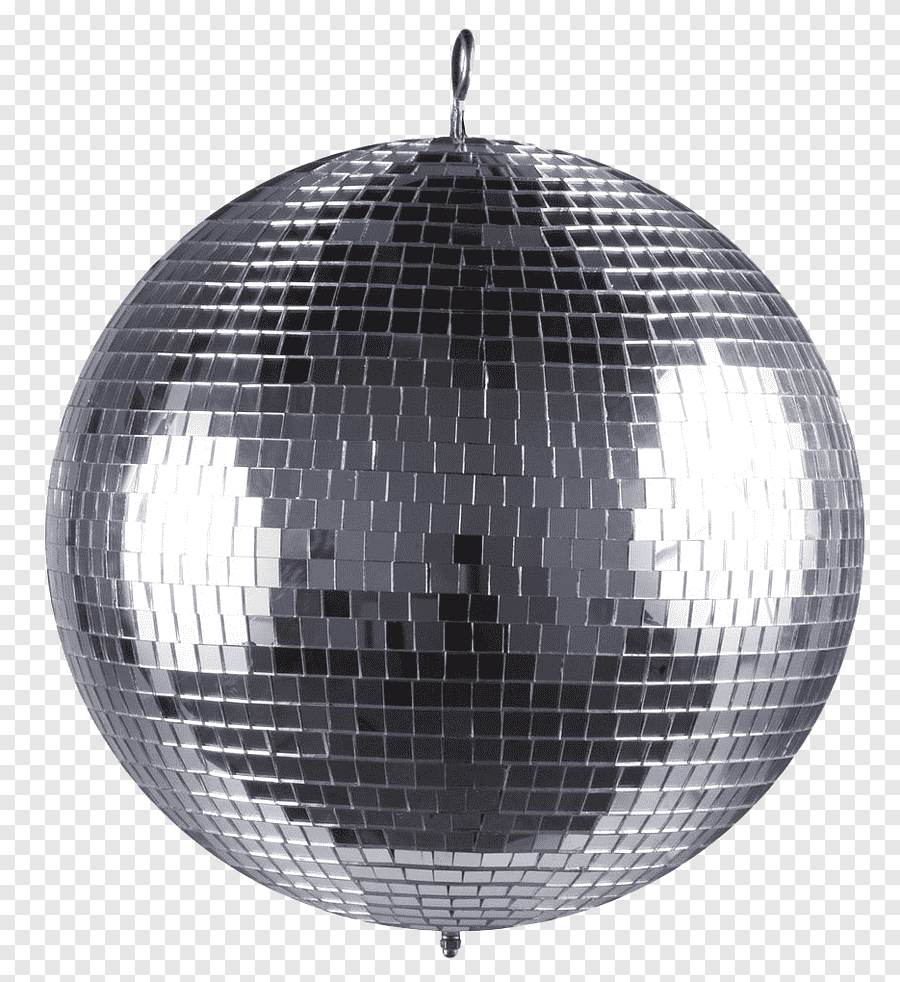
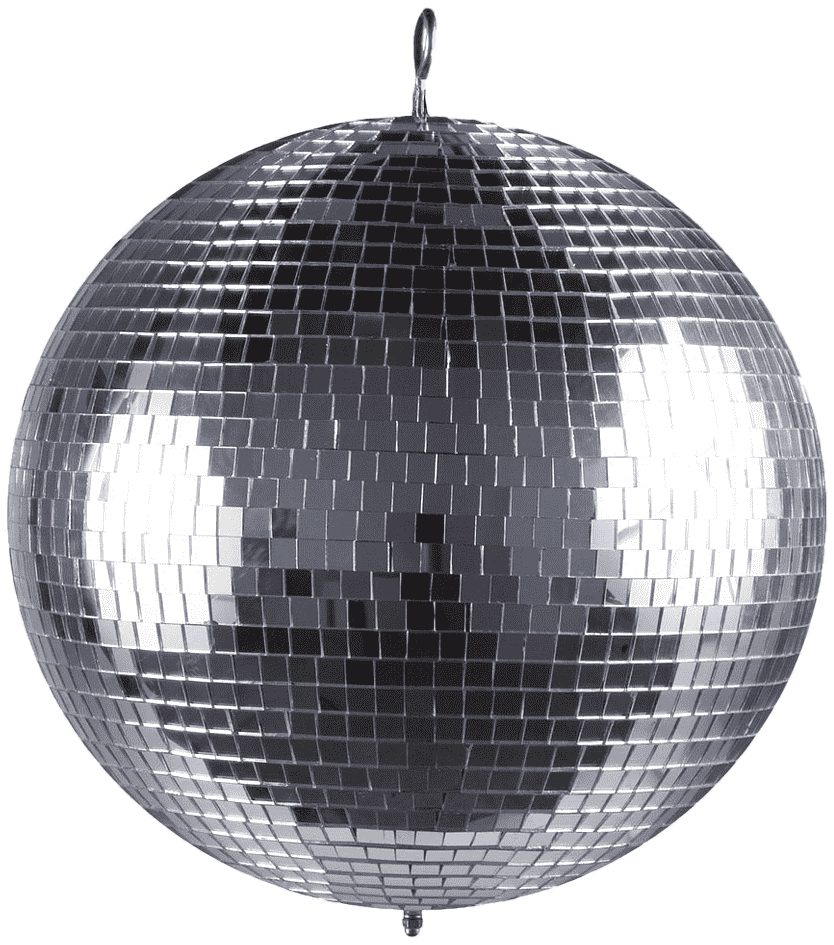
as

diff --git a/wow-fest/static/css/style.css b/wow-fest/static/css/style.css
@@ -286,7 +286,7 @@ img { max-width: 100%; height: auto; display: block; }
 }
 .hero__decor-flowers {
   position: absolute;
-  top: -2%;
+  top: 10%;
   right: -8%;
   width: 380px;
   opacity: 0.95;
@@ -294,7 +294,7 @@ img { max-width: 100%; height: auto; display: block; }
 }
 .hero__decor-disco {
   position: absolute;
-  top: 0%;
+  top: 13%;
   right: 8%;
   width: 200px;
   height: auto;